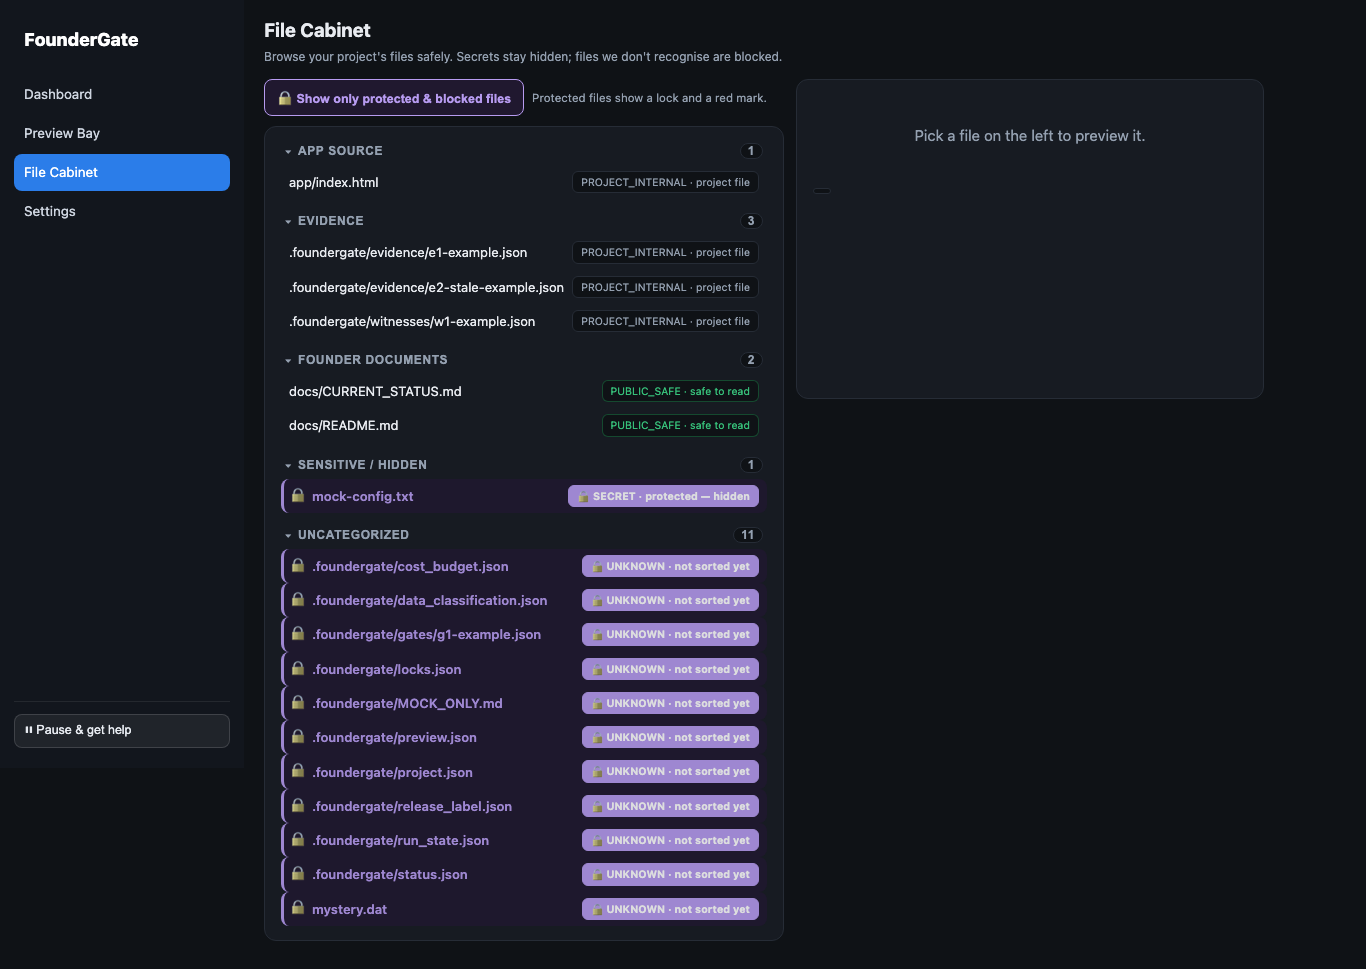
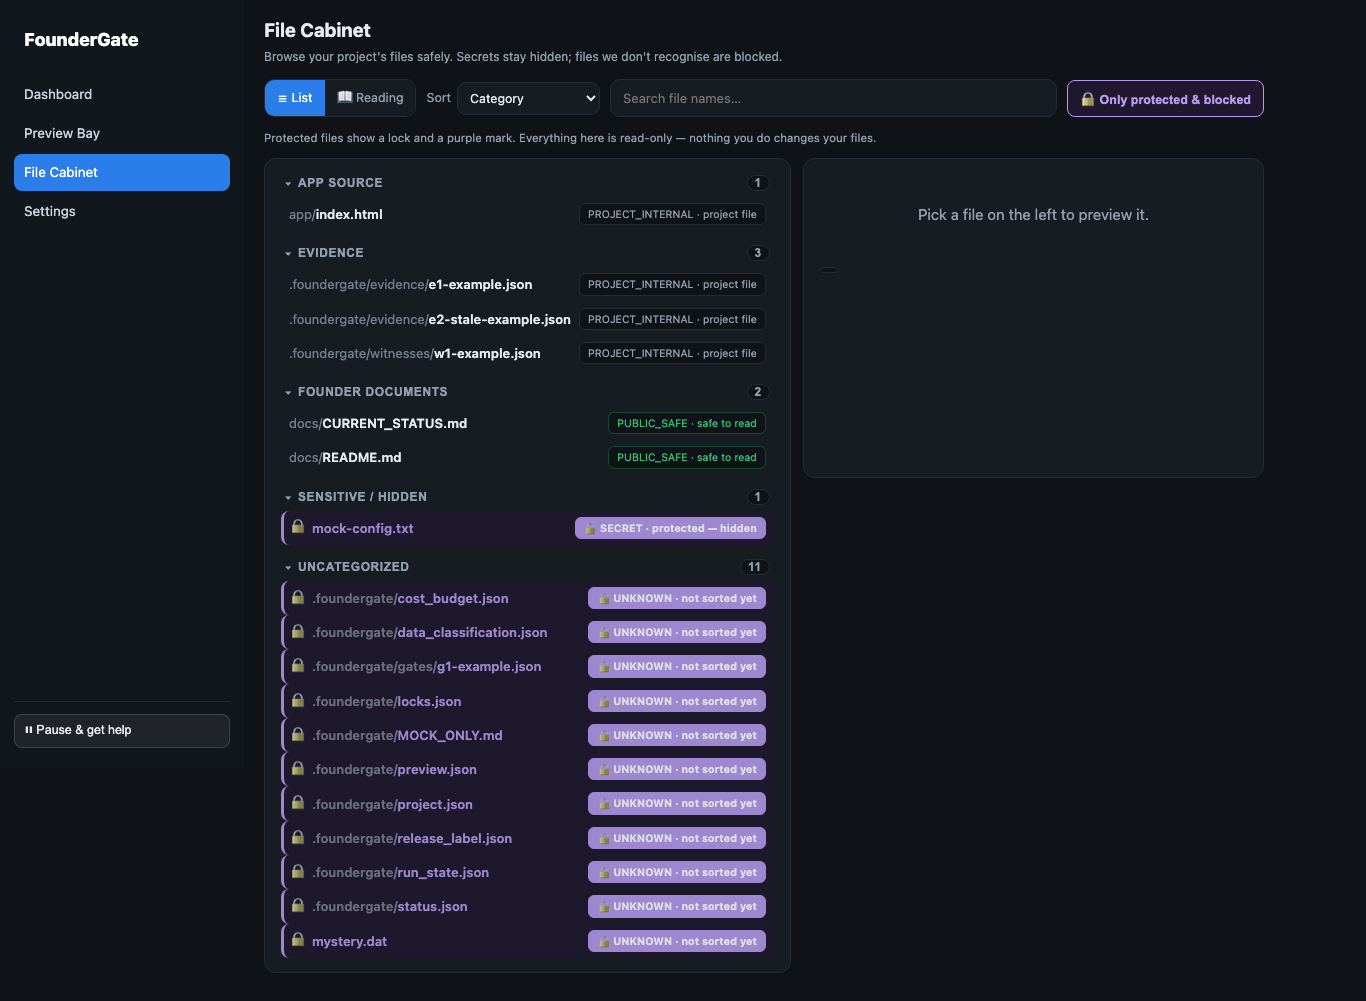
VA L3: File Cabinet readability — List/Reading views, sort, search, dim-prefix
Run-5 stranger (macOS Finder reference): "very small window… if I need to read, I
can see it better." Rebuilds the browsing surface (wide-safe UI; cabinet.mjs
enforcement untouched):
- (a) view toggle: LIST (improved) + READING (gallery) where the preview pane
  DOMINATES with large readable text and the file list is a compact side strip.
- (b) sort: name / category / protection / recently-changed (mtime added to the
  read-only tree listing — not used for access).
- (c) filename search matching the distinctive tail.
- (d) the shared ".foundergate/" prefix is dimmed; the distinctive tail is bright.
- (e) shared design-system card/badge treatment; blocked files keep the calm lock
  in every view.
Read-only: no upload / paste-folder / rearrange (folder-paste recorded as a V8-B+
idea in V8-B-proposal.md). Guards: filecabinet-l3.selftest (toggle/sort/search/
prefix present + PURE PRESENTATION — content fetch only in openFile); D4
badge-visibility updated for the new filter; no-secret-leak (10) unchanged; live
check: searching+opening a secret shows the blocked note, no leak, in both views.
VISUAL SELF-REVIEW updated (List + Reading, both viewports). Suite 47/47.

diff --git a/src/v8a3/filecabinet/ui/filecabinet.js b/src/v8a3/filecabinet/ui/filecabinet.js
@@ -1,30 +1,31 @@
 // FounderGate V8-A3 — File Cabinet frontend (vanilla ES module).
 //
-// Renders the tree grouped by category with a data-class badge on EVERY file, and
-// previews/copies/downloads a file only when the server (cabinet.mjs) allows it —
+// Renders the classified file tree with a data-class badge on EVERY file, and
+// previews/copies/downloads a file ONLY when the server (cabinet.mjs) allows it —
 // SECRET/UNKNOWN/PRODUCTION_DATA show a warm, honest "blocked" note instead of
-// content. Plain language; no scary words; the raw class token is shown verbatim
-// with a plain companion.
+// content. L3 (Run-5 readability): a LIST/READING view toggle, sort controls, a
+// filename search, and a dimmed shared path-prefix so similar names scan fast.
+//
+// READ-ONLY: no upload, no paste-a-folder, no rearrange-on-disk. Sort/search/view
+// are PURE PRESENTATION — they never fetch content; the ONLY content request is in
+// openFile(), and the server decides access. Blocked files keep the calm-lock
+// treatment in every view.
 
 const $ = (id) => document.getElementById(id);
 
 // Raw data-class token -> { plain companion, badge kind, blocked }. Token kept verbatim.
-// `blocked: true` marks the hidden/gated classes (SECRET / UNKNOWN / PRODUCTION_DATA)
-// so they get a loud, distinct treatment a non-developer can spot without reading.
 const CLASS_INFO = {
-  PUBLIC_SAFE: { plain: "safe to read", kind: "ok", blocked: false },
-  PROJECT_INTERNAL: { plain: "project file", kind: "", blocked: false },
-  PRIVATE_FOUNDER_DATA: { plain: "your private notes", kind: "", blocked: false },
-  DO_NOT_EXPORT: { plain: "view only — don't export", kind: "warn", blocked: false },
-  PRODUCTION_DATA: { plain: "needs a gate", kind: "lock", blocked: true },
-  SECRET: { plain: "protected — hidden", kind: "lock", blocked: true },
-  UNKNOWN: { plain: "not sorted yet", kind: "lock", blocked: true },
+  PUBLIC_SAFE: { plain: "safe to read", kind: "ok", blocked: false, rank: 0 },
+  PROJECT_INTERNAL: { plain: "project file", kind: "", blocked: false, rank: 1 },
+  PRIVATE_FOUNDER_DATA: { plain: "your private notes", kind: "", blocked: false, rank: 2 },
+  DO_NOT_EXPORT: { plain: "view only — don't export", kind: "warn", blocked: false, rank: 3 },
+  PRODUCTION_DATA: { plain: "needs a gate", kind: "lock", blocked: true, rank: 4 },
+  SECRET: { plain: "protected — hidden", kind: "lock", blocked: true, rank: 5 },
+  UNKNOWN: { plain: "not sorted yet", kind: "lock", blocked: true, rank: 6 },
 };
 const LOCK_GLYPH = "🔒";
-function isBlockedClass(dataClass) {
-  const info = CLASS_INFO[dataClass];
-  return info ? !!info.blocked : true; // unknown token -> treat as blocked (fail-safe)
-}
+const isBlockedClass = (dc) => { const i = CLASS_INFO[dc]; return i ? !!i.blocked : true; }; // unknown -> blocked (fail-safe)
+
 function badgeEl(dataClass) {
   const info = CLASS_INFO[dataClass] || { plain: "unknown", kind: "lock", blocked: true };
   const s = document.createElement("span");
@@ -34,84 +35,89 @@ function badgeEl(dataClass) {
   return s;
 }
 
-async function api(path) { return await (await fetch(path)).json(); }
-
-let currentTree = null;
-
-function renderTree(tree) {
-  const root = $("tree");
-  root.innerHTML = "";
-  const cats = Object.keys(tree.categories).sort();
-  for (const cat of cats) {
-    const h = document.createElement("button");
-    h.className = "cathead";
-    h.type = "button";
-    h.setAttribute("aria-expanded", "true");
-    h.innerHTML = `<span class="caret">▾</span> ${cat} <span class="count">${tree.categories[cat].length}</span>`;
-    const group = document.createElement("div");
-    group.className = "catgroup";
-    h.addEventListener("click", () => {
-      const open = group.hidden;
-      group.hidden = !open;
-      h.setAttribute("aria-expanded", String(open));
-      h.querySelector(".caret").textContent = open ? "▾" : "▸";
-    });
-    root.appendChild(h);
-    root.appendChild(group);
-    for (const f of tree.categories[cat]) {
-      const blockedFile = isBlockedClass(f.data_class);
-      const row = document.createElement("div");
-      row.className = "filerow" + (f.access.preview ? "" : " locked") + (blockedFile ? " blocked" : "");
-      row.dataset.path = f.path;
-      if (blockedFile) row.dataset.blocked = "true";
-      row.setAttribute("data-class", f.data_class);
-      const left = document.createElement("span");
-      left.className = "fileleft";
-      // A loud lock marker on blocked rows so protected files are obvious at a glance.
-      if (blockedFile) {
-        const mark = document.createElement("span");
-        mark.className = "row-lock";
-        mark.textContent = LOCK_GLYPH;
-        mark.setAttribute("aria-hidden", "true");
-        left.appendChild(mark);
-      }
-      const nm = document.createElement("span");
-      nm.className = "filename";
-      nm.textContent = f.path;
-      left.appendChild(nm);
-      row.append(left, badgeEl(f.data_class));
-      row.addEventListener("click", () => openFile(f));
-      group.appendChild(row);
-    }
-  }
-  applyBlockedFilter(blockedFilterOn); // keep filter state after a re-render
+// (d) de-emphasise the shared path prefix (e.g. ".foundergate/") so the distinctive
+// tail is what your eye lands on.
+function splitPath(p) { const i = p.lastIndexOf("/"); return i < 0 ? ["", p] : [p.slice(0, i + 1), p.slice(i + 1)]; }
+function fileNameEl(path) {
+  const [prefix, tail] = splitPath(path);
+  const wrap = document.createElement("span");
+  wrap.className = "filename";
+  if (prefix) { const p = document.createElement("span"); p.className = "path-prefix"; p.textContent = prefix; wrap.appendChild(p); }
+  const t = document.createElement("span"); t.className = "path-tail"; t.textContent = tail; wrap.appendChild(t);
+  return wrap;
 }
 
-// One-click "show only protected & blocked files" filter. Purely visual — the
-// server still decides access; this only hides the safe rows so blocked ones
-// are easy to find. Categories with no blocked files are hidden while filtering.
-let blockedFilterOn = false;
-function applyBlockedFilter(on) {
-  blockedFilterOn = on;
-  const root = $("tree");
-  root.classList.toggle("filter-blocked", on);
-  root.querySelectorAll(".catgroup").forEach((group) => {
-    const head = group.previousElementSibling;
-    const rows = [...group.querySelectorAll(".filerow")];
-    const hasBlocked = rows.some((r) => r.classList.contains("blocked"));
-    rows.forEach((r) => {
-      r.style.display = on && !r.classList.contains("blocked") ? "none" : "";
-    });
-    if (head) head.style.display = on && !hasBlocked ? "none" : "";
-    if (on && hasBlocked) {
-      group.hidden = false; // force-open groups that hold blocked files
-      if (head) {
-        head.setAttribute("aria-expanded", "true");
-        const caret = head.querySelector(".caret");
-        if (caret) caret.textContent = "▾";
-      }
-    }
-  });
+async function api(path) { return await (await fetch(path)).json(); }
+
+const state = { tree: null, view: "list", sort: "category", search: "", blockedOnly: false };
+
+function matches(f) {
+  if (!state.search) return true;
+  const q = state.search.toLowerCase();
+  const [, tail] = splitPath(f.path);
+  return tail.toLowerCase().includes(q) || f.path.toLowerCase().includes(q); // matches the distinctive tail
+}
+function passesBlocked(f) { return !state.blockedOnly || isBlockedClass(f.data_class); }
+
+function rowEl(f) {
+  const blockedFile = isBlockedClass(f.data_class);
+  const row = document.createElement("div");
+  row.className = "filerow" + (f.access.preview ? "" : " locked") + (blockedFile ? " blocked" : "");
+  row.dataset.path = f.path;
+  if (blockedFile) row.dataset.blocked = "true";
+  row.setAttribute("data-class", f.data_class);
+  const left = document.createElement("span");
+  left.className = "fileleft";
+  if (blockedFile) { const m = document.createElement("span"); m.className = "row-lock"; m.textContent = LOCK_GLYPH; m.setAttribute("aria-hidden", "true"); left.appendChild(m); }
+  left.appendChild(fileNameEl(f.path));
+  row.append(left, badgeEl(f.data_class));
+  row.addEventListener("click", () => openFile(f));
+  return row;
+}
+
+function allFiles() { return state.tree.files.filter((f) => matches(f) && passesBlocked(f)); }
+
+function renderGrouped() {
+  const root = $("tree"); root.innerHTML = "";
+  const cats = Object.keys(state.tree.categories).sort();
+  for (const cat of cats) {
+    const files = state.tree.categories[cat].filter((f) => matches(f) && passesBlocked(f)).sort((a, b) => a.path.localeCompare(b.path));
+    if (!files.length) continue;
+    const h = document.createElement("button");
+    h.className = "cathead"; h.type = "button"; h.setAttribute("aria-expanded", "true");
+    h.innerHTML = `<span class="caret">▾</span> ${cat} <span class="count">${files.length}</span>`;
+    const group = document.createElement("div"); group.className = "catgroup";
+    h.addEventListener("click", () => { const open = group.hidden; group.hidden = !open; h.setAttribute("aria-expanded", String(open)); h.querySelector(".caret").textContent = open ? "▾" : "▸"; });
+    root.append(h, group);
+    for (const f of files) group.appendChild(rowEl(f));
+  }
+  emptyNote(root);
+}
+
+function renderFlat() {
+  const root = $("tree"); root.innerHTML = "";
+  const files = allFiles().slice();
+  const byName = (a, b) => splitPath(a.path)[1].localeCompare(splitPath(b.path)[1]);
+  if (state.sort === "name") files.sort(byName);
+  else if (state.sort === "class") files.sort((a, b) => ((CLASS_INFO[b.data_class]?.rank ?? 9) - (CLASS_INFO[a.data_class]?.rank ?? 9)) || byName(a, b));
+  else if (state.sort === "changed") files.sort((a, b) => (b.mtime || 0) - (a.mtime || 0) || byName(a, b));
+  const list = document.createElement("div"); list.className = "catgroup flat";
+  for (const f of files) list.appendChild(rowEl(f));
+  root.appendChild(list);
+  emptyNote(root);
+}
+
+function emptyNote(root) {
+  if (!root.querySelector(".filerow")) {
+    const e = document.createElement("p"); e.className = "hint"; e.style.padding = "10px";
+    e.textContent = state.search ? `No file names match “${state.search}”.` : "Nothing to show.";
+    root.appendChild(e);
+  }
+}
+
+function render() {
+  $("cabinet").className = "cabinet view-" + state.view;
+  if (state.sort === "category") renderGrouped(); else renderFlat();
 }
 
 async function openFile(f) {
@@ -123,43 +129,43 @@ async function openFile(f) {
   const body = $("viewer-body"), blocked = $("viewer-blocked");
   const copyBtn = $("copy-btn"), dlBtn = $("download-btn");
 
+  // The ONLY content request — the server (cabinet.mjs) decides access.
   const r = await api(`/api/cabinet/file?action=preview&path=${encodeURIComponent(f.path)}`);
   if (r.allowed) {
-    body.hidden = false; blocked.hidden = true;
-    body.textContent = r.content;
-    copyBtn.hidden = !f.access.copy;
-    dlBtn.hidden = !f.access.download;
+    body.hidden = false; blocked.hidden = true; body.textContent = r.content;
+    copyBtn.hidden = !f.access.copy; dlBtn.hidden = !f.access.download;
   } else {
-    body.hidden = true; blocked.hidden = false;
-    blocked.textContent = r.reason || "This file can't be shown.";
+    body.hidden = true; blocked.hidden = false; blocked.textContent = r.reason || "This file can't be shown.";
     copyBtn.hidden = true; dlBtn.hidden = true;
   }
   document.body.dataset.opened = f.data_class;
 
-  copyBtn.onclick = async () => {
-    const c = await api(`/api/cabinet/file?action=copy&path=${encodeURIComponent(f.path)}`);
-    $("action-result").textContent = c.allowed ? "Copied text is ready." : c.reason;
-  };
-  dlBtn.onclick = async () => {
-    const d = await api(`/api/cabinet/file?action=download&path=${encodeURIComponent(f.path)}`);
-    $("action-result").textContent = d.allowed ? "This file is allowed to download." : d.reason;
-  };
+  copyBtn.onclick = async () => { const c = await api(`/api/cabinet/file?action=copy&path=${encodeURIComponent(f.path)}`); $("action-result").textContent = c.allowed ? "Copied text is ready." : c.reason; };
+  dlBtn.onclick = async () => { const d = await api(`/api/cabinet/file?action=download&path=${encodeURIComponent(f.path)}`); $("action-result").textContent = d.allowed ? "This file is allowed to download." : d.reason; };
 }
 
-$("pause-button").addEventListener("click", () => {
-  $("pause-button").textContent = "✓ Paused — help is on the way";
-});
-
+// ---- controls (all pure presentation) ----
+function setView(v) {
+  state.view = v; render();
+  $("view-list-btn").classList.toggle("active", v === "list");
+  $("view-gallery-btn").classList.toggle("active", v === "gallery");
+  $("view-list-btn").setAttribute("aria-pressed", String(v === "list"));
+  $("view-gallery-btn").setAttribute("aria-pressed", String(v === "gallery"));
+}
+$("view-list-btn").addEventListener("click", () => setView("list"));
+$("view-gallery-btn").addEventListener("click", () => setView("gallery"));
+$("sort-select").addEventListener("change", (e) => { state.sort = e.target.value; render(); });
+$("search-box").addEventListener("input", (e) => { state.search = e.target.value.trim(); render(); });
 $("show-blocked-btn").addEventListener("click", () => {
+  state.blockedOnly = !state.blockedOnly; render();
   const btn = $("show-blocked-btn");
-  const on = !blockedFilterOn;
-  applyBlockedFilter(on);
-  btn.setAttribute("aria-pressed", String(on));
-  btn.textContent = on ? "↩ Show all files" : "🔒 Show only protected & blocked files";
+  btn.setAttribute("aria-pressed", String(state.blockedOnly));
+  btn.textContent = state.blockedOnly ? "↩ Show all files" : "🔒 Only protected & blocked";
 });
+$("pause-button").addEventListener("click", () => { $("pause-button").textContent = "✓ Paused — help is on the way"; });
 
 (async () => {
-  currentTree = await api("/api/cabinet/tree");
-  renderTree(currentTree);
+  state.tree = await api("/api/cabinet/tree");
+  render();
   document.body.dataset.rendered = "true";
 })();

diff --git a/src/v8a3/filecabinet/ui/filecabinet.css b/src/v8a3/filecabinet/ui/filecabinet.css
@@ -12,8 +12,30 @@
 .content{padding:16px 20px 28px;max-width:1040px}
 .welcome h1{font-size:19px;margin:0}.stage{margin:3px 0 12px;font-size:12px;color:var(--muted)}
 .card{background:var(--panel);border:1px solid var(--line);border-radius:12px;padding:14px 16px}
-.cabinet{display:grid;grid-template-columns:1.1fr 1.2fr;gap:12px;align-items:start}
-@media (max-width:820px){ .cabinet{grid-template-columns:1fr} }
+/* L3 — toolbar: view toggle · sort · search · blocked filter */
+.cabinet-toolbar{display:flex;align-items:center;flex-wrap:wrap;gap:10px;margin-bottom:8px}
+.view-toggle{display:inline-flex;border:1px solid var(--line);border-radius:10px;overflow:hidden}
+.vt-btn{font:inherit;font-size:12.5px;padding:8px 12px;border:0;background:var(--panel);color:var(--muted);cursor:pointer}
+.vt-btn.active{background:var(--accent);color:#fff}
+.ctl{font-size:12.5px;color:var(--muted);display:inline-flex;align-items:center;gap:6px}
+.ctl select{font:inherit;font-size:12.5px;padding:7px 8px;border-radius:9px;border:1px solid var(--line);background:var(--panel);color:var(--text)}
+.search-box{flex:1;min-width:160px;font:inherit;font-size:13px;padding:8px 12px;border-radius:10px;border:1px solid var(--line);background:var(--panel);color:var(--text)}
+
+/* L3 — view layouts. LIST: balanced tree + preview. READING (gallery): the preview
+   pane DOMINATES with large readable text; the file list is a compact side strip. */
+.cabinet{display:grid;gap:12px;align-items:start}
+.cabinet.view-list{grid-template-columns:1.15fr 1.25fr}
+.cabinet.view-gallery{grid-template-columns:300px 1fr}
+.cabinet.view-gallery .tree{max-height:78vh;overflow:auto}
+.cabinet.view-gallery .viewer{min-height:560px}
+.cabinet.view-gallery .viewer-body{max-height:none;min-height:520px;font-size:14.5px;line-height:1.65;padding:18px}
+@media (max-width:820px){ .cabinet.view-list,.cabinet.view-gallery{grid-template-columns:1fr} }
+.catgroup.flat{display:flex;flex-direction:column;gap:1px}
+
+/* (d) dim the shared path prefix, keep the distinctive tail bright */
+.path-prefix{color:var(--muted);opacity:.75}
+.path-tail{color:var(--text);font-weight:600}
+.filerow.blocked .path-tail{color:var(--lock)}
 .cathead{display:flex;align-items:center;gap:6px;width:100%;font-size:12px;font-weight:700;color:var(--muted);
   text-transform:uppercase;letter-spacing:.05em;margin:12px 0 4px;background:none;border:0;cursor:pointer;padding:2px 4px;text-align:left}
 .cathead:first-child{margin-top:0}

diff --git a/src/v8a3/filecabinet/ui/filecabinet.html b/src/v8a3/filecabinet/ui/filecabinet.html
@@ -29,13 +29,27 @@
           </div>
         </header>
 
-        <div class="cabinet">
+        <div class="cabinet-toolbar">
+          <div class="view-toggle" role="group" aria-label="View">
+            <button id="view-list-btn" class="vt-btn active" type="button" aria-pressed="true">☰ List</button>
+            <button id="view-gallery-btn" class="vt-btn" type="button" aria-pressed="false">📖 Reading</button>
+          </div>
+          <label class="ctl">Sort
+            <select id="sort-select" aria-label="Sort files by">
+              <option value="category">Category</option>
+              <option value="name">Name</option>
+              <option value="class">Protection</option>
+              <option value="changed">Recently changed</option>
+            </select>
+          </label>
+          <input id="search-box" class="search-box" type="search" placeholder="Search file names…" aria-label="Search file names" />
+          <button id="show-blocked-btn" class="filter-btn" type="button" aria-pressed="false">🔒 Only protected &amp; blocked</button>
+        </div>
+        <p class="tree-tools-hint">Protected files show a lock and a purple mark. Everything here is read-only — nothing you do changes your files.</p>
+
+        <div class="cabinet view-list" id="cabinet">
           <div class="tree-panel">
-            <div class="tree-tools">
-              <button id="show-blocked-btn" class="filter-btn" type="button" aria-pressed="false">🔒 Show only protected &amp; blocked files</button>
-              <span class="tree-tools-hint">Protected files show a lock and a purple mark.</span>
-            </div>
-            <section class="tree card" id="tree" aria-label="Files by category"></section>
+            <section class="tree card" id="tree" aria-label="Files"></section>
           </div>
           <section class="viewer card" id="viewer">
             <div class="viewer-empty" id="viewer-empty">Pick a file on the left to preview it.</div>

diff --git a/docs/assembly-evidence/visual-review/VISUAL_REVIEW.md b/docs/assembly-evidence/visual-review/VISUAL_REVIEW.md
@@ -1,8 +1,9 @@
 # VISUAL SELF-REVIEW — verdict (THE VISUAL SELF-REVIEW LAW, Assembly Manual §23)
 
-> **Bundle:** VA-REPAIR-4 (design-system consolidation) · **Date:** 2026-07-11 · **Reviewer:** FounderGate CTO
-> (looked at each image and reasoned as a first-time human would). **Scope:** all four founder-facing screens at
-> **1366×768** and **1440×900**, full-page and above-the-fold. Screenshots in this folder.
+> **Bundle:** VA-REPAIR-4 (design system) + **L3 File Cabinet readability** · **Date:** 2026-07-11 · **Reviewer:**
+> FounderGate CTO (looked at each image and reasoned as a first-time human would). **Scope:** all four founder-facing
+> screens at **1366×768** and **1440×900**, full-page; the File Cabinet reviewed in **both** its List and Reading
+> views. Screenshots in this folder.
 >
 > **Honest scope note (from the law):** this review *reduces, not eliminates,* human catches. The founder witness
 > gate remains the final filter.
@@ -13,7 +14,8 @@
 |--------|----------|----------|---------|
 | **Truth Dashboard** | clean | clean | **PASS** — the new **running-state chip** ("🟡 Waiting on you") leads the strip (answers "is it running?"); the **PROJECT** label sits above the name; the needs-you card has an **amber trim**. Identity + 6 chips + one action above the fold, no void. |
 | **Preview Bay** | clean | clean | **PASS** — now the **same dark design** as the dashboard (was "a little bit off"): shared sidebar, chips, buttons, panels. Controls read as one product. |
-| **File Cabinet** | clean | clean | **PASS** — dark and **CALM**: the "very red, very scary" danger-wall is gone; protected/blocked files use the quiet **purple lock** treatment (still distinct at a glance), green "safe to read" for safe files, one-click filter. Red is no longer used for routine states. |
+| **File Cabinet (List view)** | clean | clean | **PASS** — dark + calm purple lock; **L3:** the shared `.foundergate/` prefix is dimmed and the distinctive **tail is bright/bold**, so similar names scan fast. Toolbar: List/Reading toggle · Sort · Search. |
+| **File Cabinet (Reading view)** | clean | clean | **PASS** — **L3:** the preview pane **dominates** with large readable text (Luna Café README shown ~14.5px/1.65) and the file list becomes a compact side strip — directly answers "very small window… I can see it better". Verified: viewer > 1.5× the strip width; searching a secret still shows it by name/badge but opening it shows the blocked note with **no content leak**. *Minor, parked:* names truncate in the narrow strip (switch to List to browse names). |
 | **Project Guide** | clean | clean | **PASS** — dark and **warm** (was "very dull"): a friendly 🤖 welcome fills the once-empty chat; chips, input, and shell match the siblings; every honesty behaviour unchanged. |
 
 ## What changed in this bundle (Run-4 findings)

diff --git a/docs/lanes/V8-B-proposal.md b/docs/lanes/V8-B-proposal.md
@@ -61,6 +61,12 @@ the active build contract authorizes work (69).
 Each stage: schema-first, builder + independent adversarial checker, committed adversarial proofs, exact-SHA CI,
 UI witness, accept gate — the same rhythm as V8-A.
 
+## Deferred stranger ideas (V8-B+, out of V8-A scope)
+- **Add files by dropping/pasting a folder into the File Cabinet** (Run-5 stranger "Luran"). This is a WRITE/import
+  path — squarely out of V8-A's read-only scope. Recorded here for a future V8-B+ contract, where any import would
+  be gated, classified on ingest, and never bypass the File Cabinet enforcement. (V8-A's File Cabinet stays
+  read-only: no upload, no paste-a-folder, no rearrange-on-disk.)
+
 ## One next action
 **None until the Stranger Test passes and V8-A is accepted.** Then this draft can be promoted to a real V8-B
 proposal and gate card.
